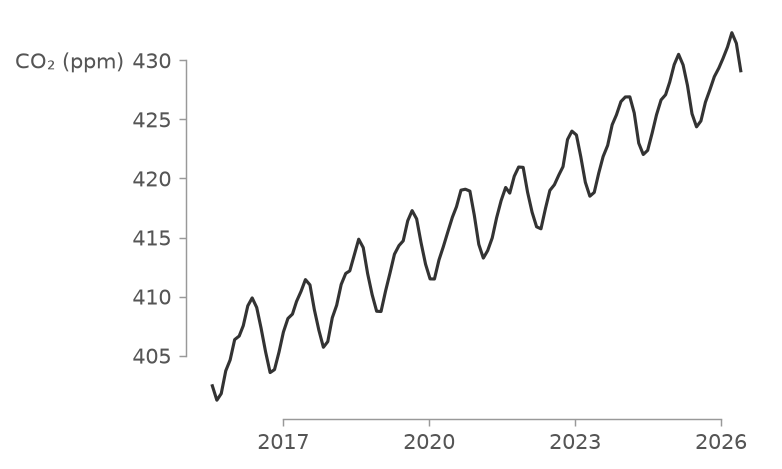
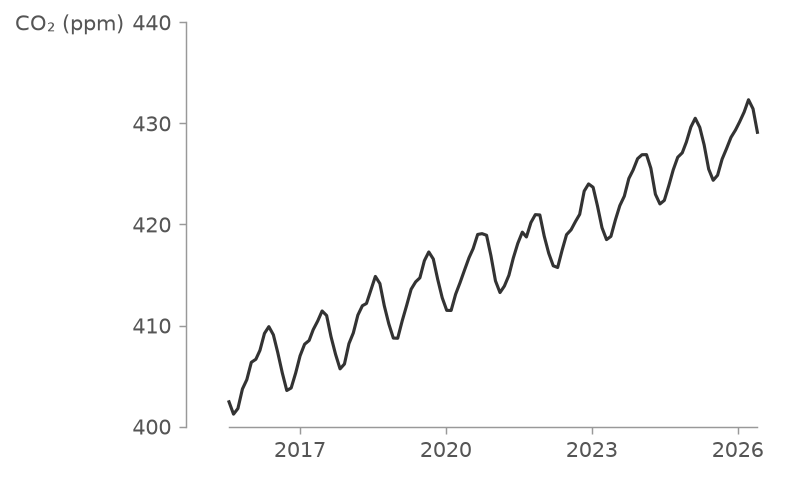
docs: show per-spine frame modes on the timeseries figure
Claude-Session: https://claude.ai/code/session_01Mezf1N2GUp3grMVXprkY3q

diff --git a/examples/gallery.py b/examples/gallery.py
@@ -52,7 +52,7 @@ CO2_PPM = (
 def timeseries() -> None:
     """Render the Mauna Loa CO2 record with a date range frame."""
     fig, ax = plt.subplots(figsize=(5, 3.5))
-    vzs.apply(ax)
+    vzs.apply(ax, frame=("data", "loose"))
     months = [
         dt.date(
             CO2_START.year + (CO2_START.month - 1 + i) // 12,

diff --git a/README.md b/README.md
@@ -57,6 +57,12 @@ vzs.apply(ax, frame="data")   # spines end at the exact data min and max
 vzs.apply(ax, frame="loose")  # spines end at nice numbers bounding the data
 ```
 
+A tuple sets the modes per spine, `(x, y)`, so a measurement record can end exactly where the data does while the value axis keeps nice bounds:
+
+```python
+vzs.apply(ax, frame=("data", "loose"))
+```
+
 `xlabel` sits below the right end of the bottom spine; `ylabel` sits horizontal at the top of the left spine. `flush=True` anchors the y-label at the topmost tick label; `labelpad` widens the gap to the tick labels:
 
 ```python
@@ -100,7 +106,7 @@ A power law on log-log axes with `frame="loose"`: offset spines end at the power
 
 ![Log-log scatter plot of a power law with offset spines ending at powers of ten bounding the data](docs/scatter_loglog.png)
 
-The Mauna Loa CO₂ record on a date axis: the spine ends at the outermost year ticks inside the data, with the labels kept short by the `ConciseDateFormatter`:
+The Mauna Loa CO₂ record on a date axis, with per-spine modes `frame=("data", "loose")`: the time spine ends exactly where the record does, the value spine at nice numbers bounding it, and the `ConciseDateFormatter` keeps the date labels short:
 
 ![Line chart of a decade of monthly CO₂ measurements, the bottom spine trimmed to year ticks inside the data range](docs/timeseries.png)
 
